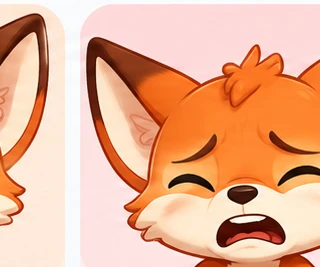
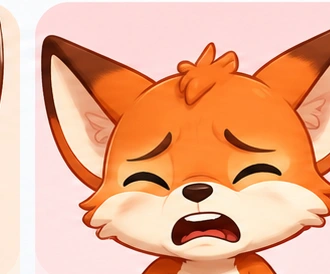
Add files via upload

diff --git a/index.html b/index.html
@@ -1,4 +1,4 @@
-<!doctype html><html lang="fr"><head><meta charset="utf-8"><meta name="viewport" content="width=device-width,initial-scale=1,viewport-fit=cover"><meta name="theme-color" content="#123a5b"><meta name="apple-mobile-web-app-capable" content="yes"><meta name="apple-mobile-web-app-title" content="PASTEL Pédiatrie"><link rel="manifest" href="manifest.webmanifest"><link rel="icon" href="icon.svg" type="image/svg+xml"><title>PASTEL Pédiatrie — Version 3</title><style>
+<!doctype html><html lang="fr"><head><meta charset="utf-8"><meta name="viewport" content="width=device-width,initial-scale=1,viewport-fit=cover"><meta name="theme-color" content="#123a5b"><meta name="apple-mobile-web-app-capable" content="yes"><meta name="apple-mobile-web-app-title" content="PASTEL Pédiatrie"><link rel="manifest" href="manifest.webmanifest"><link rel="icon" href="icon.svg" type="image/svg+xml"><title>PASTEL Pédiatrie — Version 3.2</title><style>
 :root{font-family:system-ui,-apple-system,Segoe UI,sans-serif;background:#edf3f8;color:#183044}*{box-sizing:border-box}body{margin:0}header{background:#123a5b;color:white;padding:20px max(18px,calc((100vw - 580px)/2))}header h1{font-size:21px;margin:0}header small{opacity:.83}main{max-width:580px;margin:0 auto;padding:12px 14px 38px}.card{background:#fff;border-radius:15px;padding:17px;margin-bottom:12px;box-shadow:0 2px 9px #1830440b}h2{font-size:17px;margin:0 0 13px}h3{font-size:15px;margin:14px 0 6px}label{font-size:13px;font-weight:650;display:block;margin:10px 0 5px}input,select{width:100%;font:inherit;padding:11px;border:1px solid #a9bac9;border-radius:9px;background:white;color:#183044}input:focus,select:focus{outline:2px solid #367ea5}.inputs{display:grid;grid-template-columns:1fr 1fr;gap:10px}.result{background:#e5f1f9;padding:13px;border-radius:10px;margin-top:13px}.big{font-size:27px;font-weight:800}.muted{font-size:12px;color:#53677b}.tabs{display:grid;grid-template-columns:repeat(5,1fr);gap:5px;margin:0 0 12px}.tab{padding:11px 2px;border:0;border-radius:10px;background:#dce8f1;color:#24465f;font-weight:700;font-size:12px}.tab.active{background:#123a5b;color:white}.panel{display:none}.panel.active{display:block}.line{display:flex;justify-content:space-between;align-items:flex-start;gap:10px;padding:11px 0;border-bottom:1px solid #e1e9ef}.line:last-child{border:0}.line strong{font-size:15px;text-align:right;white-space:nowrap}.tag{display:inline-block;background:#e4eff8;color:#174366;border-radius:5px;padding:3px 7px;font-weight:800;margin-right:6px}.warn{background:#fff3de;border-left:4px solid #d99a27;padding:12px;border-radius:8px;font-size:12px;line-height:1.5}.info{background:#e9f3fa;border-left:4px solid #4486b2;padding:12px;border-radius:8px;font-size:12px;line-height:1.5}.button{border:0;background:#123a5b;color:white;border-radius:9px;padding:11px 14px;font-weight:700;cursor:pointer}.secondary{background:#e4edf5;color:#123a5b}.buttons{display:flex;gap:8px;flex-wrap:wrap;margin-top:13px}footer{font-size:11px;color:#53677b;line-height:1.5;padding:6px 3px}.source{font-size:11px;color:#5d6d7c;margin-top:12px}a{color:#145d87}.micro{color:#bd202b;font-size:15px;font-weight:850;display:block;margin-top:3px}
     .dose{display:flex;flex-direction:column;align-items:flex-end}
     .choice{display:block;padding:10px 12px;margin:5px 0;border:1px solid #d4e0e9;border-radius:9px;font-size:13px;font-weight:400;cursor:pointer}
@@ -8,12 +8,12 @@
     .foxgrid{display:grid;grid-template-columns:repeat(3,1fr);gap:8px}
     .fox{border:2px solid #d4e0e9;background:white;border-radius:12px;padding:5px;cursor:pointer;color:#123a5b;font-weight:800}
     .fox[aria-pressed=true]{border-color:#123a5b;background:#e5f1f9;box-shadow:0 0 0 2px #c5e2f5}
-    .fox img{width:100%;aspect-ratio:1.2;object-fit:cover;border-radius:8px;display:block}
+    .fox img{width:100%;aspect-ratio:1.2;object-fit:contain;border-radius:8px;display:block}
     .fox small{display:block;font-weight:500;font-size:10px}
     .evalgroup{border:0;padding:0;margin:14px 0}.evalgroup legend{font-weight:800}
     @media(min-width:520px){.foxgrid{grid-template-columns:repeat(6,1fr)}}
     @media(max-width:390px){.tab{font-size:11px}.line strong{font-size:14px}}
-</style></head><body><header><h1>PASTEL(M) Pédiatrie</h1><small>Version 3 · Calculateur pédagogique · Références ES ASUR</small></header><main><section class="card"><h2>Données de l'enfant</h2><div class="inputs"><div><label for="age">Âge</label><input id="age" type="number" value="6" min="0" max="18" step="any" inputmode="decimal"></div><div><label for="unit">Unité</label><select id="unit"><option value="years">Années</option><option value="months">Mois</option></select></div></div><label for="weight">Poids réel (kg) — facultatif</label><input id="weight" type="number" min="0" max="150" step="any" inputmode="decimal" placeholder="Laisser vide pour estimation"><div id="weightDisplay" class="result"></div><p class="muted" id="weightNotice"></p></section><nav class="tabs" aria-label="Sections"><button class="tab active" data-tab="pastel">PASTEL</button><button class="tab" data-tab="vitals">Constantes</button><button class="tab" data-tab="airway">Matériel</button><button class="tab" data-tab="evaluation">Évaluation</button><button class="tab" data-tab="training">Formation</button></nav><section id="pastel" class="panel active"><div class="card"><h2>PASTEL(M)</h2><div id="pastelRows"></div><div class="buttons"><button class="button" id="copy">Copier le tableau</button></div><p class="source">Source : ES ASUR, support pédiatrie 2026, p. 19. Calculs théoriques sans dose maximale ni indication clinique.</p></div><div class="card"><h2>Repères de préparation</h2><div id="extra"></div><p class="source">Adrénaline : concentration 0,1 mg/mL issue de la SOP ES ASUR « Préparation/dilution adrénaline » (18.09.2025). Ne pas confondre les voies IV/IO et IM.</p></div></section><section id="vitals" class="panel"><div class="card"><h2>Constantes selon l'âge</h2><div id="vitalRows"></div><div class="warn">La fréquence cardiaque normale par tranche d'âge n'est pas intégrée à cette version : les seuils nécessitent une table de référence validée. Les constantes ne remplacent pas l'évaluation clinique, le TEP ou l'ABCDE.</div><p class="source">Source : ES ASUR, support pédiatrie 2026, pp. 14 et 78–79. La TAs indiquée est une limite inférieure, pas une valeur cible habituelle.</p></div></section><section id="airway" class="panel"><div class="card"><h2>Ventilation et dispositifs</h2><div id="airwayRows"></div><div class="info">Masque facial : choisir sur l'anatomie (arête du nez jusqu'au creux du menton), pas uniquement sur le poids. Vérifier l'étanchéité, l'élévation thoracique et l'EtCO₂. Valve pop-off ouverte selon la SOP.</div><p class="source">Sources : SOP ES ASUR BAVU pédiatrique (21.07.2025), pp. 2–6 ; SOP i-gel pédiatrique (18.09.2025), p. 3. Les plages i-gel se chevauchent : vérifier la notice et le dispositif réel.</p></div></section><section id="evaluation" class="panel">
+</style></head><body><header><h1>PASTEL(M) Pédiatrie</h1><small>Version 3.2 · Calculateur pédagogique · Références ES ASUR</small></header><main><section class="card"><h2>Données de l'enfant</h2><div class="inputs"><div><label for="age">Âge</label><input id="age" type="number" value="6" min="0" max="18" step="any" inputmode="decimal"></div><div><label for="unit">Unité</label><select id="unit"><option value="years">Années</option><option value="months">Mois</option></select></div></div><label for="weight">Poids réel (kg) — facultatif</label><input id="weight" type="number" min="0" max="150" step="any" inputmode="decimal" placeholder="Laisser vide pour estimation"><div id="weightDisplay" class="result"></div><p class="muted" id="weightNotice"></p></section><nav class="tabs" aria-label="Sections"><button class="tab active" data-tab="pastel">PASTEL</button><button class="tab" data-tab="vitals">Constantes</button><button class="tab" data-tab="airway">Matériel</button><button class="tab" data-tab="evaluation">Évaluation</button><button class="tab" data-tab="training">Formation</button></nav><section id="pastel" class="panel active"><div class="card"><h2>PASTEL(M)</h2><div id="pastelRows"></div><div class="buttons"><button class="button" id="copy">Copier le tableau</button></div><p class="source">Source : ES ASUR, support pédiatrie 2026, p. 19. Calculs théoriques sans dose maximale ni indication clinique.</p></div><div class="card"><h2>Repères de préparation</h2><div id="extra"></div><p class="source">Adrénaline : concentration 0,1 mg/mL issue de la SOP ES ASUR « Préparation/dilution adrénaline » (18.09.2025). Ne pas confondre les voies IV/IO et IM.</p></div></section><section id="vitals" class="panel"><div class="card"><h2>Constantes selon l'âge</h2><div id="vitalRows"></div><div class="warn">La fréquence cardiaque normale par tranche d'âge n'est pas intégrée à cette version : les seuils nécessitent une table de référence validée. Les constantes ne remplacent pas l'évaluation clinique, le TEP ou l'ABCDE.</div><p class="source">Source : ES ASUR, support pédiatrie 2026, pp. 14 et 78–79. La TAs indiquée est une limite inférieure, pas une valeur cible habituelle.</p></div></section><section id="airway" class="panel"><div class="card"><h2>Ventilation et dispositifs</h2><div id="airwayRows"></div><div class="info">Masque facial : choisir sur l'anatomie (arête du nez jusqu'au creux du menton), pas uniquement sur le poids. Vérifier l'étanchéité, l'élévation thoracique et l'EtCO₂. Valve pop-off ouverte selon la SOP.</div><p class="source">Sources : SOP ES ASUR BAVU pédiatrique (21.07.2025), pp. 2–6 ; SOP i-gel pédiatrique (18.09.2025), p. 3. Les plages i-gel se chevauchent : vérifier la notice et le dispositif réel.</p></div></section><section id="evaluation" class="panel">
 <div class="card"><h2>Glasgow pédiatrique</h2>
 <p class="muted">Choisir la réponse observée. La réponse verbale et la réponse motrice sont adaptées au développement. Noter séparément E, V et M.</p>
 <label for="gcsMode">Développement</label><select id="gcsMode"><option value="pre">Enfant préverbal / nourrisson</option><option value="verbal">Enfant verbal</option></select>
@@ -56,7 +56,7 @@ function updateGcs(){
 $('gcsMode').onchange=drawGcs;
 $('gcsReset').onclick=()=>drawGcs();drawGcs();
 const painNames=['Pas de douleur','Petite douleur','Douleur modérée','Douleur importante','Très grande douleur','Pire douleur possible'];
-$('foxGrid').innerHTML=painNames.map((name,i)=>`<button type="button" class="fox" data-pain="${i*2}" aria-pressed="false"><img src="renard-${i}.webp" alt="Renard : ${name}"><span>${i*2} / 10</span><small>${name}</small></button>`).join('');
+$('foxGrid').innerHTML=painNames.map((name,i)=>`<button type="button" class="fox" data-pain="${i*2}" aria-pressed="false"><img src="renard-${i}.webp?v=32" alt="Renard : ${name}"><span>${i*2} / 10</span><small>${name}</small></button>`).join('');
 $('foxGrid').querySelectorAll('button').forEach(b=>b.onclick=()=>{
  $('foxGrid').querySelectorAll('button').forEach(x=>x.setAttribute('aria-pressed',String(x===b)));
  $('foxScore').textContent=`${b.dataset.pain} / 10 · ${painNames[Number(b.dataset.pain)/2]}`;

diff --git a/sw.js b/sw.js
@@ -1,1 +1,1 @@
-const CACHE='pastel-v3-20261024';const ASSETS=['./','./index.html','./manifest.webmanifest','./icon.svg',...Array.from({length:6},(_,i)=>`./renard-${i}.webp`)];self.addEventListener('install',e=>{e.waitUntil(caches.open(CACHE).then(c=>c.addAll(ASSETS)));self.skipWaiting()});self.addEventListener('activate',e=>{e.waitUntil(caches.keys().then(keys=>Promise.all(keys.filter(k=>k!==CACHE).map(k=>caches.delete(k)))));self.clients.claim()});self.addEventListener('fetch',e=>{if(e.request.method!=='GET')return;e.respondWith(fetch(e.request).then(res=>{if(res.ok&&new URL(e.request.url).origin===self.location.origin){const copy=res.clone();caches.open(CACHE).then(c=>c.put(e.request,copy))}return res}).catch(()=>caches.match(e.request)))})
+const CACHE='pastel-v3-2-20261025';const ASSETS=['./','./index.html','./manifest.webmanifest','./icon.svg',...Array.from({length:6},(_,i)=>`./renard-${i}.webp`)];self.addEventListener('install',e=>{e.waitUntil(caches.open(CACHE).then(c=>c.addAll(ASSETS)));self.skipWaiting()});self.addEventListener('activate',e=>{e.waitUntil(caches.keys().then(keys=>Promise.all(keys.filter(k=>k!==CACHE).map(k=>caches.delete(k)))));self.clients.claim()});self.addEventListener('fetch',e=>{if(e.request.method!=='GET')return;e.respondWith(fetch(e.request).then(res=>{if(res.ok&&new URL(e.request.url).origin===self.location.origin){const copy=res.clone();caches.open(CACHE).then(c=>c.put(e.request,copy))}return res}).catch(()=>caches.match(e.request)))})
